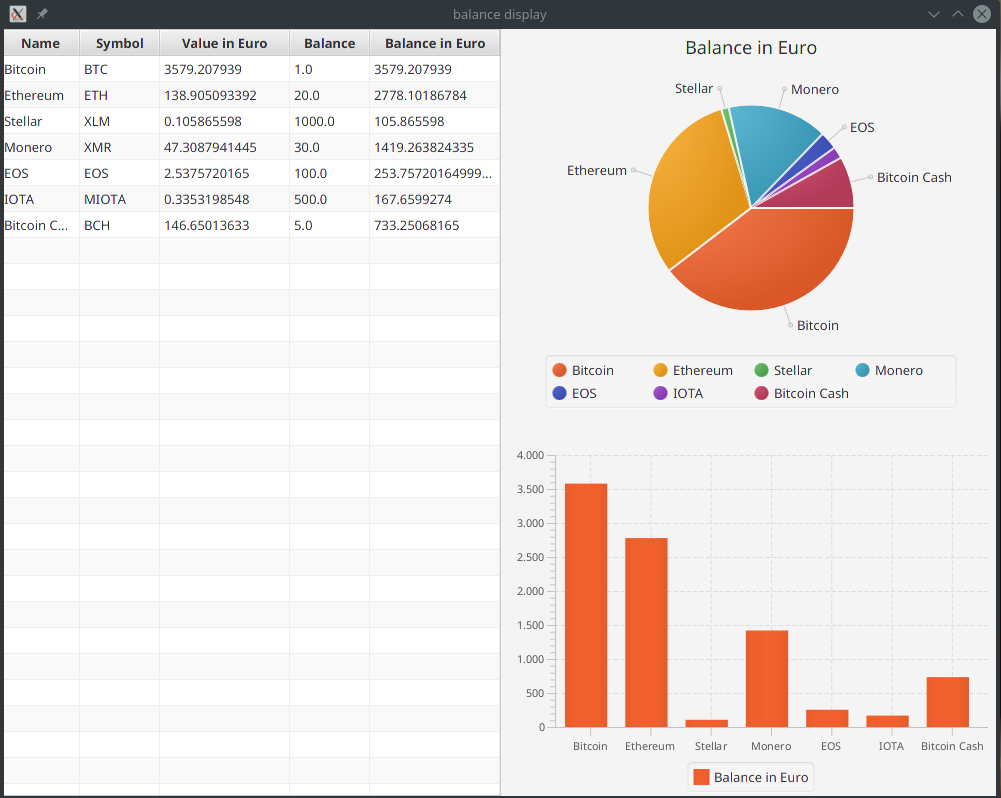
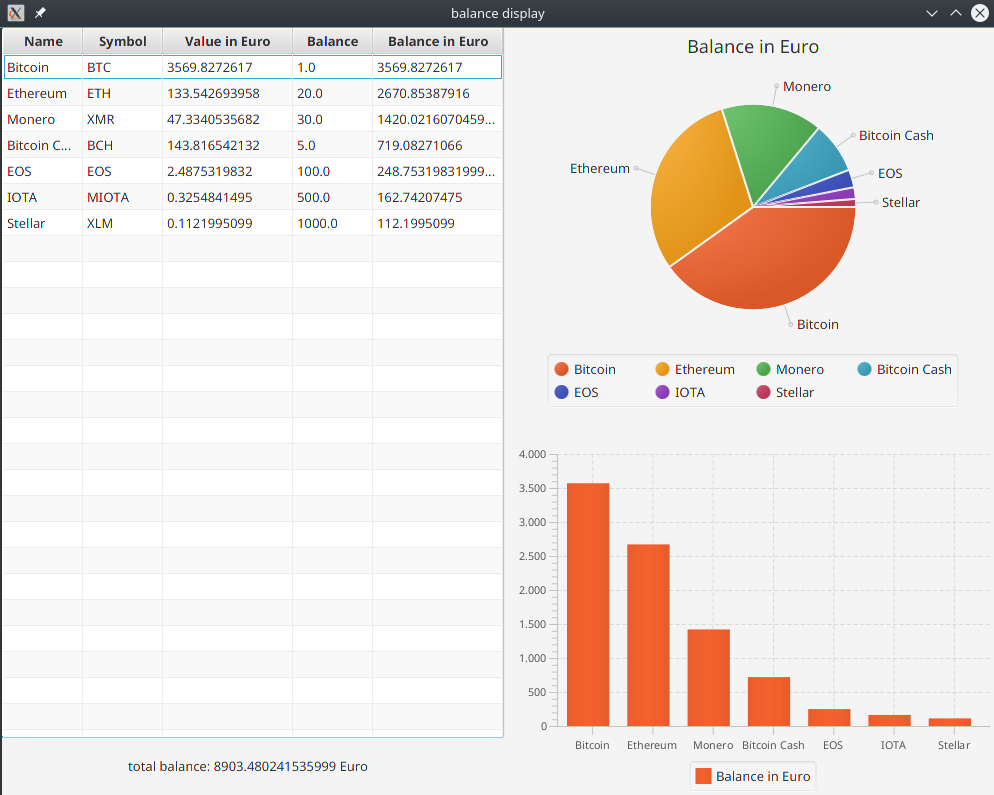
Added a label to display the total balance under the table.

diff --git a/src/main/kotlin/MainView.kt b/src/main/kotlin/MainView.kt
@@ -18,15 +18,15 @@ class ChartView : View() {
     init {
         with(root) {
 
-            piechart ("Balance in " + controller.currencyName){
+            piechart("Balance in " + controller.currencyName) {
                 for (item in controller.coinValues) {
-                    data(item.name, item.balanceInEuro)
+                    data(item.name, item.balanceInEuroOrUSD)
                 }
             }
             barchart("", CategoryAxis(), NumberAxis()) {
                 series("Balance in " + controller.currencyName) {
                     for (item in controller.coinValues) {
-                        data(item.name, item.balanceInEuro)
+                        data(item.name, item.balanceInEuroOrUSD)
                     }
                 }
                 /*
@@ -48,18 +48,26 @@ class ChartView : View() {
 /**
  * The table displayed in the program is declared in this class.
  */
-class BalanceTableView : View() {
+class BalanceTableAndTotalBalanceView : View() {
     private val controller: BalanceController by inject()
     private val customViewModel: CustomViewModel by inject()
 
-    override val root = tableview(customViewModel.token) {
-        readonlyColumn("Name", Token::name).fixedWidth(80)
-        readonlyColumn("Symbol", Token::symbol).fixedWidth(80)
-        readonlyColumn("Value in " + controller.currencyName, Token::valueInEuro).fixedWidth(130)
-        readonlyColumn("Balance", Token::balance).fixedWidth(80)
-        readonlyColumn("Balance in " + controller.currencyName, Token::balanceInEuro).fixedWidth(130)
+    override val root = borderpane{
 
-        minWidth = 500.0
+        center = tableview(customViewModel.token) {
+            readonlyColumn("Name", Token::name).fixedWidth(80)
+            readonlyColumn("Symbol", Token::symbol).fixedWidth(80)
+            readonlyColumn("Value in ${controller.currencyName}", Token::valueInEuro).fixedWidth(130)
+            readonlyColumn("Balance", Token::balance).fixedWidth(80)
+            readonlyColumn("Balance in ${controller.currencyName}", Token::balanceInEuroOrUSD).fixedWidth(130)
+            minWidth = 500.0
+            paddingLeft = 10.0
+        }
+
+        bottom = stackpane {
+            label("total balance: ${controller.totalBalance} ${controller.currencyName}")
+            paddingAll = 20.0
+        }
 
     }
 
@@ -72,8 +80,9 @@ class ProgressBarView : View() {
     private val status: TaskStatus by inject()
 
     override val root = StackPane()
+
     init {
-        with(root){
+        with(root) {
             progressbar(status.progress)
             label(status.message)
         }
@@ -86,7 +95,7 @@ class ProgressBarView : View() {
  */
 class MainDisplayView : View() {
     override val root = borderpane {
-        left<BalanceTableView>()
+        left<BalanceTableAndTotalBalanceView>()
         center<ChartView>()
     }
 }
@@ -106,6 +115,7 @@ class CustomViewModel : ItemViewModel<Token>() {
 
             controller.coinValues.clear()
             controller.coinValues = controller.loadCoinValues()
+            controller.totalBalance = controller.calculateTotalBalance(controller.coinValues)
         } ui {
             token.set(controller.coinValues.observable())
             mainView.replaceContent()

diff --git a/src/main/kotlin/BalanceController.kt b/src/main/kotlin/BalanceController.kt
@@ -1,12 +1,21 @@
 import tornadofx.Controller
 
+class Token(
+    val name: String,
+    val symbol: String,
+    val valueInEuro: Double,
+    val balance: Double,
+    val balanceInEuroOrUSD: Double
+)
+
 class BalanceController : Controller() {
     private val file: InputFile = InputFile()
     private val inputData = file.inputData
     private val json = Json()
+    private var usdIsUsed: Boolean
     var currencyName: String
-    var usdIsUsed: Boolean
     var coinValues = arrayListOf<Token>()
+    var totalBalance = 0.0
 
     init {
         if (inputData.first.equals("usd", true)) {
@@ -26,8 +35,16 @@ class BalanceController : Controller() {
             json.getCoinValuesInEuro(inputData.second)
 
         }
-
+        coinValues.sortByDescending { it.balanceInEuroOrUSD }
         return coinValues
+    }
+
+    fun calculateTotalBalance(coinValues: ArrayList<Token>): Double {
+        var totalBalance = 0.0
+        for (token in coinValues){
+            totalBalance += token.balanceInEuroOrUSD
+        }
+        return totalBalance
     }
 
 }

diff --git a/src/main/kotlin/Json.kt b/src/main/kotlin/Json.kt
@@ -3,14 +3,6 @@ import com.beust.klaxon.JsonObject
 import com.beust.klaxon.Parser
 import java.net.URL
 
-class Token(
-    val name: String,
-    val symbol: String,
-    val valueInEuro: Double,
-    val balance: Double,
-    val balanceInEuro: Double
-)
-
 class Json {
 
     /**
@@ -60,7 +52,7 @@ class Json {
 
         val jsonArray = getKlaxonJsonArray("https://api.coinmarketcap.com/v1/ticker/")
 
-        var tokenBalance = arrayListOf<Token>()
+        val tokenBalance = arrayListOf<Token>()
         for (item in currentBalance) {
             val token = getToken(jsonArray, item.first)
             token?.let {
